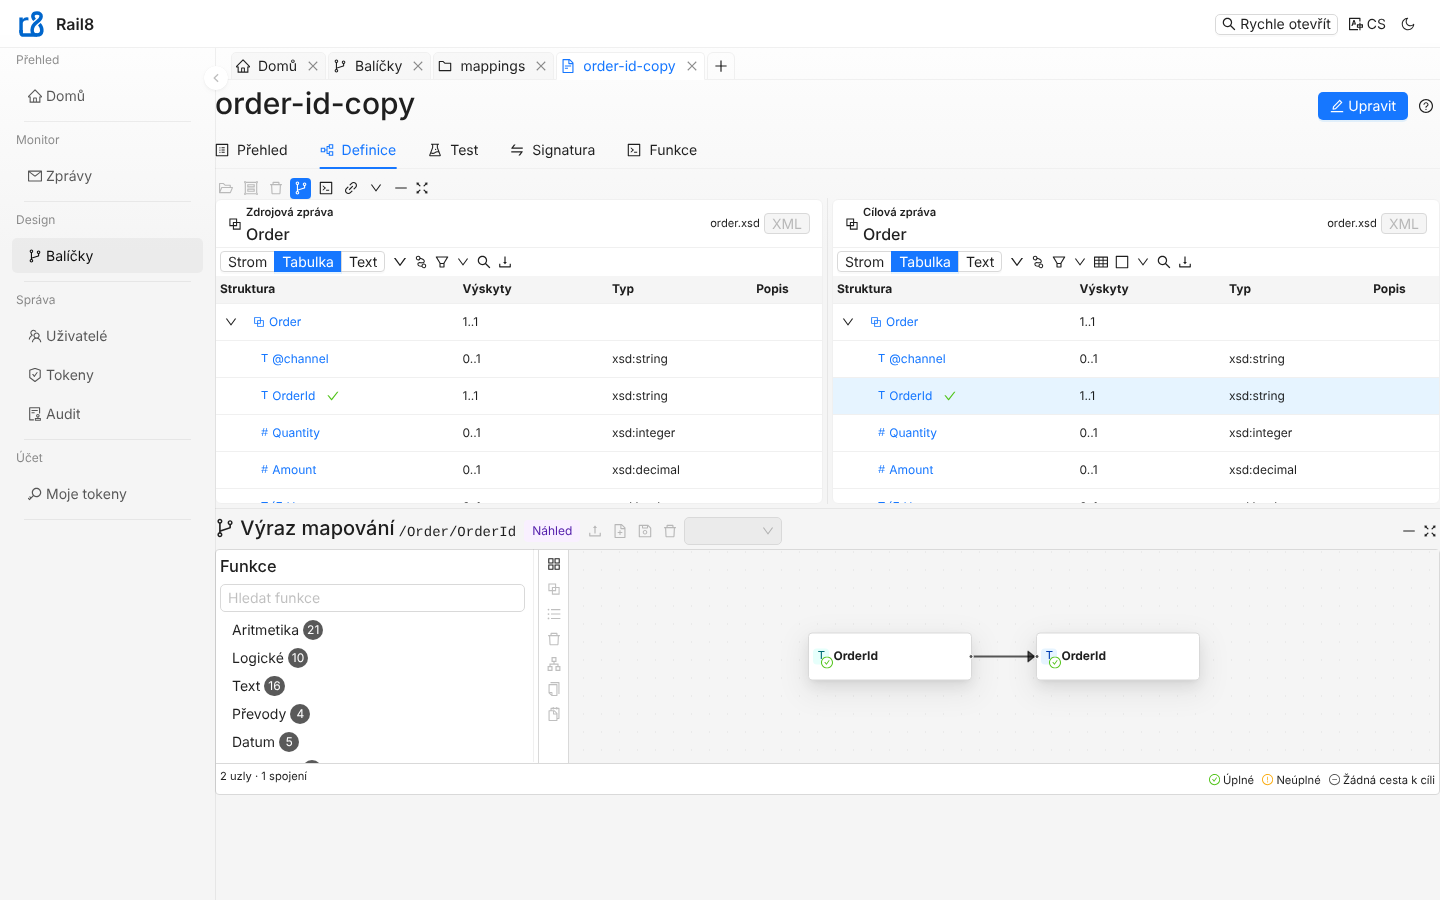
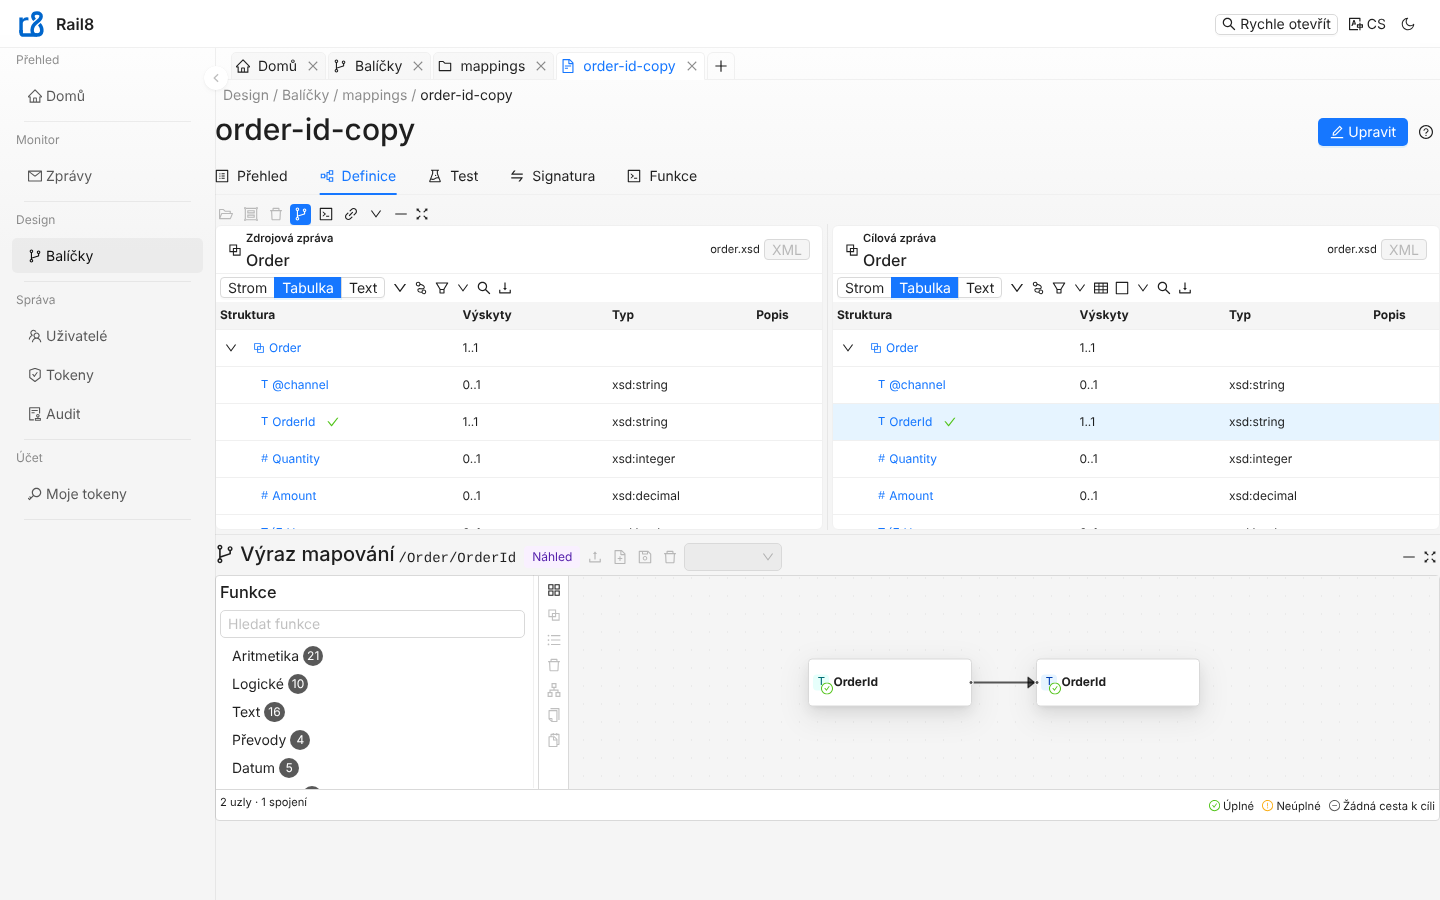
Show the tab's breadcrumb in the mapping studio
The studio draws its own frame instead of Page, so it showed no breadcrumb:
a mapping opened from its package or from Quick open now shows Design ›
Packages › package › mapping above its heading, as the other editors do.

Claude-Session: https://claude.ai/code/session_018sN5AXaiNoAbxQYU1v8oxD

diff --git a/ui/src/Page.tsx b/ui/src/Page.tsx
@@ -1,4 +1,6 @@
-import { PageContainer, type PageContainerProps } from '@ant-design/pro-components';
+import { PageContainer, RouteContext, type PageContainerProps } from '@ant-design/pro-components';
+import { Breadcrumb } from 'antd';
+import { useContext } from 'react';
 
 /**
  * A screen's page in the workspace: Ant Design Pro's PageContainer under the breadcrumb the shell gives each tab, with
@@ -8,4 +10,10 @@ import { PageContainer, type PageContainerProps } from '@ant-design/pro-componen
  */
 export function Page({ title, ...rest }: PageContainerProps) {
   return <PageContainer title={title === false ? false : <h1 className="rail8-page-title">{title}</h1>} {...rest} />;
+}
+
+/** The breadcrumb the shell gives the tab it is in, for a page that draws its own frame instead of {@link Page}. */
+export function TabBreadcrumb() {
+  const { breadcrumb } = useContext(RouteContext);
+  return breadcrumb?.items?.length ? <Breadcrumb {...breadcrumb} /> : null;
 }

diff --git a/ui/src/mapping/studio/StudioFrame.tsx b/ui/src/mapping/studio/StudioFrame.tsx
@@ -21,6 +21,7 @@ import { AboutStudio } from './AboutStudio';
 import type { BrowserStateStore } from './browser-state/browser-state';
 import { DefinitionTab } from './definition/DefinitionTab';
 import { DiscardDialog } from '../../DiscardDialog';
+import { TabBreadcrumb } from '../../Page';
 import type { UnsavedChanges } from '../../screens';
 import { useWorkingFile } from '../../workingFiles';
 import { FunctionsTab } from './functions/FunctionsTab';
@@ -304,6 +305,7 @@ export function StudioFrame({ mappingId, api, store, browserState, onSaved, guar
 
   return (
     <section className="rail8-page studio-workspace" ref={panelRef}>
+      <TabBreadcrumb />
       <Flex align="center" justify="space-between" wrap gap="small">
         <h1>{name}</h1>
         <Flex align="center" gap="small">

diff --git a/ui/src/mapping/screen.browser.test.tsx b/ui/src/mapping/screen.browser.test.tsx
@@ -127,6 +127,13 @@ describe('mappings in the shell', () => {
     await expect.element(button('Add source message')).toBeEnabled();
   });
 
+  test('the studio shows the breadcrumb of its tab: the screens that led to it, then the mapping', async () => {
+    render(fakeApiClient());
+    await openMapping('order-id-copy');
+    const crumbs = page.getByRole('navigation', { name: 'Breadcrumb' }).getByRole('listitem');
+    await expect.poll(() => crumbs.elements().map((crumb) => crumb.textContent)).toEqual(['Workspace', 'Files', 'order-id-copy']);
+  });
+
   test('New mapping starts in the folder of the mapping beside it, below the folder it shows, and makes the id of them', async () => {
     const fake = fakeApiClient();
     const createMapping = vi.fn(fake.createMapping);

diff --git a/ui/src/mapping/studio/studio.css b/ui/src/mapping/studio/studio.css
@@ -3,6 +3,9 @@
 .studio-workspace h3 {
   margin-block: 0 var(--ant-margin-xs);
 }
+.studio-workspace > .ant-breadcrumb {
+  padding: var(--ant-padding-xs) 0 0 var(--ant-padding-sm);
+}
 .studio-workspace .ant-card {
   min-width: 0;
 }

diff --git a/docs/UI-PATTERNS.md b/docs/UI-PATTERNS.md
@@ -30,7 +30,8 @@ menu marks Packages while it is shown.
 ## A page
 
 Every screen but a canvas renders inside `Page` (`ui/src/Page.tsx`), which is ProComponents' PageContainer with the
-title as the page's heading of level 1. The frame gives it:
+title as the page's heading of level 1. A canvas draws its own frame and puts `TabBreadcrumb`, from the same file, above
+its heading. The frame gives a page:
 
 - the **breadcrumb**: the screen's group, the screens it was opened from, each a link back, and its own title;
 - the **gutter**: `paddingLG` at the sides (16 px in the compact size), `paddingXL` above the header block.
